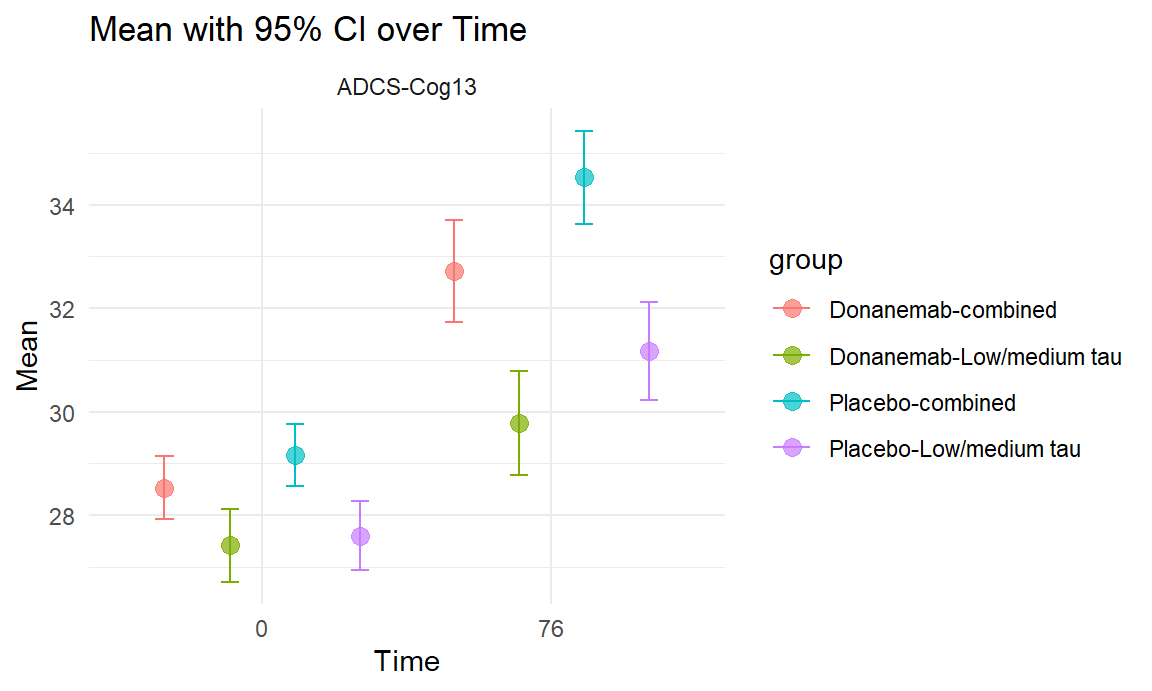
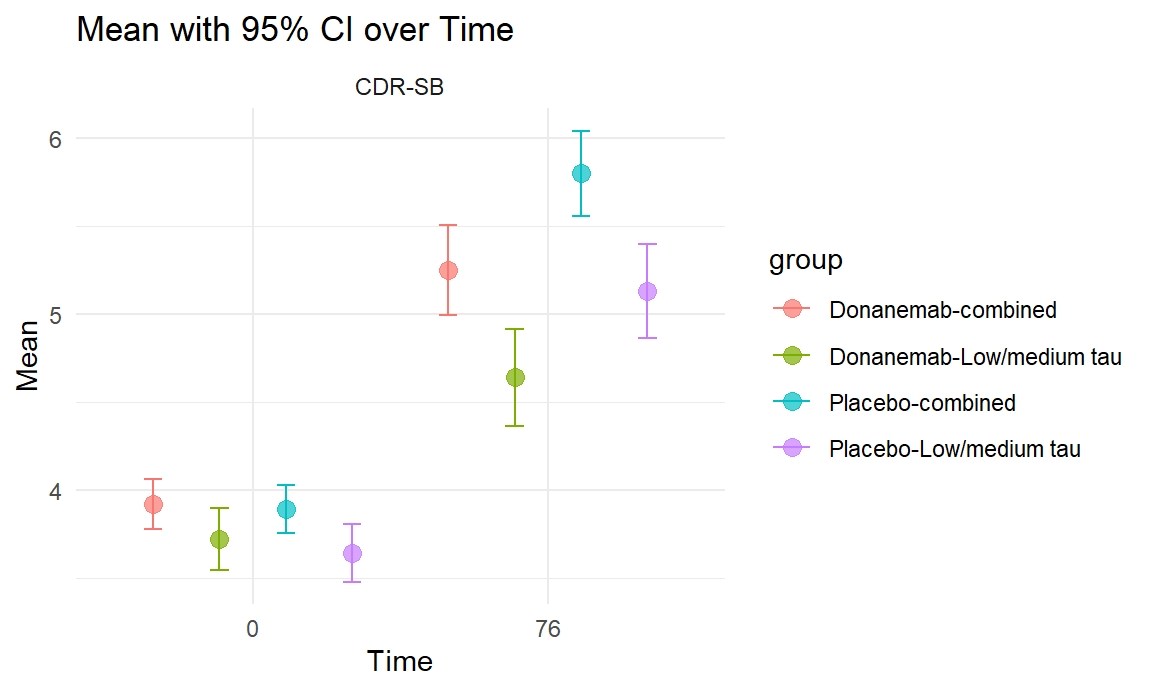
add demo in ct

diff --git a/Clinical_trials.html b/Clinical_trials.html
@@ -450,8 +450,8 @@ sex_df |&gt;
          xaxis = list(title = &quot;Drug&quot;),
          yaxis = list(title = &quot;Percentage (%)&quot;),
          width=500)</code></pre>
-<div class="plotly html-widget html-fill-item" id="htmlwidget-a2e14f26792b0a8ccf5e" style="width:90%;height:345.6px;"></div>
-<script type="application/json" data-for="htmlwidget-a2e14f26792b0a8ccf5e">{"x":{"visdat":{"bc581c265f55":["function () ","plotlyVisDat"]},"cur_data":"bc581c265f55","attrs":{"bc581c265f55":{"x":{},"y":{},"color":{},"alpha_stroke":1,"sizes":[10,100],"spans":[1,20],"type":"bar"}},"layout":{"width":500,"margin":{"b":40,"l":60,"t":25,"r":10},"barmode":"stack","title":"Distribution of Participants' Baseline Sex by drugs","xaxis":{"domain":[0,1],"automargin":true,"title":"Drug","type":"category","categoryorder":"array","categoryarray":["Donanemab","Lecanemab"]},"yaxis":{"domain":[0,1],"automargin":true,"title":"Percentage (%)"},"hovermode":"closest","showlegend":true},"source":"A","config":{"modeBarButtonsToAdd":["hoverclosest","hovercompare"],"showSendToCloud":false},"data":[{"x":["Lecanemab","Donanemab"],"y":[51.600000000000001,56.5],"type":"bar","name":"Female","marker":{"color":"rgba(102,194,165,1)","line":{"color":"rgba(102,194,165,1)"}},"textfont":{"color":"rgba(102,194,165,1)"},"error_y":{"color":"rgba(102,194,165,1)"},"error_x":{"color":"rgba(102,194,165,1)"},"xaxis":"x","yaxis":"y","frame":null},{"x":["Lecanemab","Donanemab"],"y":[48.399999999999999,43.5],"type":"bar","name":"Male","marker":{"color":"rgba(141,160,203,1)","line":{"color":"rgba(141,160,203,1)"}},"textfont":{"color":"rgba(141,160,203,1)"},"error_y":{"color":"rgba(141,160,203,1)"},"error_x":{"color":"rgba(141,160,203,1)"},"xaxis":"x","yaxis":"y","frame":null}],"highlight":{"on":"plotly_click","persistent":false,"dynamic":false,"selectize":false,"opacityDim":0.20000000000000001,"selected":{"opacity":1},"debounce":0},"shinyEvents":["plotly_hover","plotly_click","plotly_selected","plotly_relayout","plotly_brushed","plotly_brushing","plotly_clickannotation","plotly_doubleclick","plotly_deselect","plotly_afterplot","plotly_sunburstclick"],"base_url":"https://plot.ly"},"evals":[],"jsHooks":[]}</script>
+<div class="plotly html-widget html-fill-item" id="htmlwidget-f3eb65bda780d369e8ad" style="width:90%;height:345.6px;"></div>
+<script type="application/json" data-for="htmlwidget-f3eb65bda780d369e8ad">{"x":{"visdat":{"df50174335dc":["function () ","plotlyVisDat"]},"cur_data":"df50174335dc","attrs":{"df50174335dc":{"x":{},"y":{},"color":{},"alpha_stroke":1,"sizes":[10,100],"spans":[1,20],"type":"bar"}},"layout":{"width":500,"margin":{"b":40,"l":60,"t":25,"r":10},"barmode":"stack","title":"Distribution of Participants' Baseline Sex by drugs","xaxis":{"domain":[0,1],"automargin":true,"title":"Drug","type":"category","categoryorder":"array","categoryarray":["Donanemab","Lecanemab"]},"yaxis":{"domain":[0,1],"automargin":true,"title":"Percentage (%)"},"hovermode":"closest","showlegend":true},"source":"A","config":{"modeBarButtonsToAdd":["hoverclosest","hovercompare"],"showSendToCloud":false},"data":[{"x":["Lecanemab","Donanemab"],"y":[51.600000000000001,56.5],"type":"bar","name":"Female","marker":{"color":"rgba(102,194,165,1)","line":{"color":"rgba(102,194,165,1)"}},"textfont":{"color":"rgba(102,194,165,1)"},"error_y":{"color":"rgba(102,194,165,1)"},"error_x":{"color":"rgba(102,194,165,1)"},"xaxis":"x","yaxis":"y","frame":null},{"x":["Lecanemab","Donanemab"],"y":[48.399999999999999,43.5],"type":"bar","name":"Male","marker":{"color":"rgba(141,160,203,1)","line":{"color":"rgba(141,160,203,1)"}},"textfont":{"color":"rgba(141,160,203,1)"},"error_y":{"color":"rgba(141,160,203,1)"},"error_x":{"color":"rgba(141,160,203,1)"},"xaxis":"x","yaxis":"y","frame":null}],"highlight":{"on":"plotly_click","persistent":false,"dynamic":false,"selectize":false,"opacityDim":0.20000000000000001,"selected":{"opacity":1},"debounce":0},"shinyEvents":["plotly_hover","plotly_click","plotly_selected","plotly_relayout","plotly_brushed","plotly_brushing","plotly_clickannotation","plotly_doubleclick","plotly_deselect","plotly_afterplot","plotly_sunburstclick"],"base_url":"https://plot.ly"},"evals":[],"jsHooks":[]}</script>
 <ul>
 <li>From the plot, we can see that there are more female participants in
 Donanemab’s clinical trial than that in Lecanemab’s clinical trial.</li>
@@ -467,8 +467,8 @@ race_df |&gt;
          xaxis = list(title = &quot;Drug&quot;),
          yaxis = list(title = &quot;Percentage (%)&quot;),
          width=500)</code></pre>
-<div class="plotly html-widget html-fill-item" id="htmlwidget-179f9f90b46ea84e5c22" style="width:90%;height:345.6px;"></div>
-<script type="application/json" data-for="htmlwidget-179f9f90b46ea84e5c22">{"x":{"visdat":{"bc5862577be0":["function () ","plotlyVisDat"]},"cur_data":"bc5862577be0","attrs":{"bc5862577be0":{"x":{},"y":{},"color":{},"alpha_stroke":1,"sizes":[10,100],"spans":[1,20],"type":"bar"}},"layout":{"width":500,"margin":{"b":40,"l":60,"t":25,"r":10},"barmode":"stack","title":"Distribution of Participants' Baseline Race by drugs","xaxis":{"domain":[0,1],"automargin":true,"title":"Drug","type":"category","categoryorder":"array","categoryarray":["Donanemab","Lecanemab"]},"yaxis":{"domain":[0,1],"automargin":true,"title":"Percentage (%)"},"hovermode":"closest","showlegend":true},"source":"A","config":{"modeBarButtonsToAdd":["hoverclosest","hovercompare"],"showSendToCloud":false},"data":[{"x":["Lecanemab","Donanemab"],"y":[76.299999999999997,90],"type":"bar","name":"White","marker":{"color":"rgba(102,194,165,1)","line":{"color":"rgba(102,194,165,1)"}},"textfont":{"color":"rgba(102,194,165,1)"},"error_y":{"color":"rgba(102,194,165,1)"},"error_x":{"color":"rgba(102,194,165,1)"},"xaxis":"x","yaxis":"y","frame":null},{"x":["Lecanemab","Donanemab"],"y":[17.100000000000001,7.2999999999999998],"type":"bar","name":"Asian","marker":{"color":"rgba(252,141,98,1)","line":{"color":"rgba(252,141,98,1)"}},"textfont":{"color":"rgba(252,141,98,1)"},"error_y":{"color":"rgba(252,141,98,1)"},"error_x":{"color":"rgba(252,141,98,1)"},"xaxis":"x","yaxis":"y","frame":null},{"x":["Lecanemab","Donanemab"],"y":[2.2999999999999998,2.5],"type":"bar","name":"Black","marker":{"color":"rgba(141,160,203,1)","line":{"color":"rgba(141,160,203,1)"}},"textfont":{"color":"rgba(141,160,203,1)"},"error_y":{"color":"rgba(141,160,203,1)"},"error_x":{"color":"rgba(141,160,203,1)"},"xaxis":"x","yaxis":"y","frame":null},{"x":["Lecanemab","Donanemab"],"y":[4.2999999999999998,0.20000000000000001],"type":"bar","name":"Other or Missing","marker":{"color":"rgba(231,138,195,1)","line":{"color":"rgba(231,138,195,1)"}},"textfont":{"color":"rgba(231,138,195,1)"},"error_y":{"color":"rgba(231,138,195,1)"},"error_x":{"color":"rgba(231,138,195,1)"},"xaxis":"x","yaxis":"y","frame":null}],"highlight":{"on":"plotly_click","persistent":false,"dynamic":false,"selectize":false,"opacityDim":0.20000000000000001,"selected":{"opacity":1},"debounce":0},"shinyEvents":["plotly_hover","plotly_click","plotly_selected","plotly_relayout","plotly_brushed","plotly_brushing","plotly_clickannotation","plotly_doubleclick","plotly_deselect","plotly_afterplot","plotly_sunburstclick"],"base_url":"https://plot.ly"},"evals":[],"jsHooks":[]}</script>
+<div class="plotly html-widget html-fill-item" id="htmlwidget-8669cff8b15f7c8687e4" style="width:90%;height:345.6px;"></div>
+<script type="application/json" data-for="htmlwidget-8669cff8b15f7c8687e4">{"x":{"visdat":{"df50573d35f2":["function () ","plotlyVisDat"]},"cur_data":"df50573d35f2","attrs":{"df50573d35f2":{"x":{},"y":{},"color":{},"alpha_stroke":1,"sizes":[10,100],"spans":[1,20],"type":"bar"}},"layout":{"width":500,"margin":{"b":40,"l":60,"t":25,"r":10},"barmode":"stack","title":"Distribution of Participants' Baseline Race by drugs","xaxis":{"domain":[0,1],"automargin":true,"title":"Drug","type":"category","categoryorder":"array","categoryarray":["Donanemab","Lecanemab"]},"yaxis":{"domain":[0,1],"automargin":true,"title":"Percentage (%)"},"hovermode":"closest","showlegend":true},"source":"A","config":{"modeBarButtonsToAdd":["hoverclosest","hovercompare"],"showSendToCloud":false},"data":[{"x":["Lecanemab","Donanemab"],"y":[76.299999999999997,90],"type":"bar","name":"White","marker":{"color":"rgba(102,194,165,1)","line":{"color":"rgba(102,194,165,1)"}},"textfont":{"color":"rgba(102,194,165,1)"},"error_y":{"color":"rgba(102,194,165,1)"},"error_x":{"color":"rgba(102,194,165,1)"},"xaxis":"x","yaxis":"y","frame":null},{"x":["Lecanemab","Donanemab"],"y":[17.100000000000001,7.2999999999999998],"type":"bar","name":"Asian","marker":{"color":"rgba(252,141,98,1)","line":{"color":"rgba(252,141,98,1)"}},"textfont":{"color":"rgba(252,141,98,1)"},"error_y":{"color":"rgba(252,141,98,1)"},"error_x":{"color":"rgba(252,141,98,1)"},"xaxis":"x","yaxis":"y","frame":null},{"x":["Lecanemab","Donanemab"],"y":[2.2999999999999998,2.5],"type":"bar","name":"Black","marker":{"color":"rgba(141,160,203,1)","line":{"color":"rgba(141,160,203,1)"}},"textfont":{"color":"rgba(141,160,203,1)"},"error_y":{"color":"rgba(141,160,203,1)"},"error_x":{"color":"rgba(141,160,203,1)"},"xaxis":"x","yaxis":"y","frame":null},{"x":["Lecanemab","Donanemab"],"y":[4.2999999999999998,0.20000000000000001],"type":"bar","name":"Other or Missing","marker":{"color":"rgba(231,138,195,1)","line":{"color":"rgba(231,138,195,1)"}},"textfont":{"color":"rgba(231,138,195,1)"},"error_y":{"color":"rgba(231,138,195,1)"},"error_x":{"color":"rgba(231,138,195,1)"},"xaxis":"x","yaxis":"y","frame":null}],"highlight":{"on":"plotly_click","persistent":false,"dynamic":false,"selectize":false,"opacityDim":0.20000000000000001,"selected":{"opacity":1},"debounce":0},"shinyEvents":["plotly_hover","plotly_click","plotly_selected","plotly_relayout","plotly_brushed","plotly_brushing","plotly_clickannotation","plotly_doubleclick","plotly_deselect","plotly_afterplot","plotly_sunburstclick"],"base_url":"https://plot.ly"},"evals":[],"jsHooks":[]}</script>
 <ul>
 <li>From the plot, we can see there is more diversity in Lecanemab’s
 clinical trial. Races other than white occupies a larger proportion of
@@ -476,6 +476,65 @@ participants in Lecanemab’s clinical trial than that in Donanemab’s
 clinical trial than that in Lecanemab’s clinical trial, especially
 Asians.</li>
 </ul>
+<pre class="r"><code>combine_mean_sd = function(df, group = &quot;&quot;){
+  
+  n = df |&gt; filter(str_detect(group, &quot;Low/medium tau&quot;)) |&gt; pull(sample_size) # number in group 1
+  m =  df |&gt; filter(str_detect(group, &quot;combined&quot;)) |&gt; pull(sample_size) # number in group 2
+  sx = df |&gt; filter(str_detect(group, &quot;Low/medium tau&quot;)) |&gt; pull(sd) # sd of group 1
+  sy = df |&gt; filter(str_detect(group, &quot;combined&quot;)) |&gt; pull(sd) # sd of group 2
+  x_bar = df |&gt; filter(str_detect(group, &quot;Low/medium tau&quot;)) |&gt; pull(mean) # mean of group 1
+  y_bar = df |&gt; filter(str_detect(group, &quot;combined&quot;)) |&gt; pull(mean) # mean of group 2
+
+  combined_mean = (n * x_bar + m * y_bar) / (n + m)
+  combined_sd =   sqrt(((n-1)*sx^2+(m-1)*sy^2)/(n+m-1)+(n*m*(x_bar-y_bar)^2)/((n+m)*(n+m-1)))
+  combined_samplesize = n + m
+  combined_ci_lower = combined_mean - 1.96*combined_sd
+  combined_ci_upper = combined_mean + 1.96*combined_sd
+  
+  return (tibble(
+    outcome = df |&gt; head(1) |&gt; pull(outcome),
+    group = group,
+    mean = combined_mean,
+    sd = combined_sd,
+    sample_size = combined_samplesize,
+    ci_lower = combined_ci_lower,
+    ci_upper = combined_ci_upper,
+    time = 0))}</code></pre>
+<pre class="r"><code>iADRS &lt;- read_excel(&quot;data/Donanemab_.xlsx&quot;, sheet = &quot;1&quot;)
+CDR_SB &lt;- read_excel(&quot;data/Donanemab_.xlsx&quot;, sheet = &quot;2&quot;)
+ADCS_iADL &lt;- read_excel(&quot;data/Donanemab_.xlsx&quot;, sheet = &quot;3&quot;)
+ADAS_Cog13 &lt;- read_excel(&quot;data/Donanemab_.xlsx&quot;, sheet = &quot;4&quot;)
+MMSE &lt;- read_excel(&quot;data/Donanemab_.xlsx&quot;, sheet = &quot;5&quot;)
+
+lec_result &lt;- read_excel(&quot;data/Lecanemab.xlsx&quot;, sheet = &quot;result&quot;) |&gt;
+  filter(time == 0,
+         outcome %in% c(&quot;CDR-SB&quot;, &quot;ADAS-Cog14&quot;, &quot;MMSE&quot;)) |&gt;
+  mutate(drug = &quot;Lecanemab&quot;,
+         ci_lower = mean - 1.96*sd,
+         ci_upper = mean + 1.96*sd) |&gt;
+  select(drug, everything())
+
+don_result = bind_rows(
+  combine_mean_sd(CDR_SB |&gt; filter(time == 0, str_detect(group, &quot;Donanemab&quot;)), &quot;Donanemab&quot;),
+  combine_mean_sd(CDR_SB |&gt; filter(time == 0, str_detect(group, &quot;Placebo&quot;)), &quot;Placebo&quot;),
+  combine_mean_sd(ADAS_Cog13 |&gt; filter(time == 0, str_detect(group, &quot;Donanemab&quot;)), &quot;Donanemab&quot;),
+  combine_mean_sd(ADAS_Cog13 |&gt; filter(time == 0, str_detect(group, &quot;Placebo&quot;)), &quot;Placebo&quot;),
+  combine_mean_sd(MMSE |&gt; filter(time == 0, str_detect(group, &quot;Donanemab&quot;)), &quot;Donanemab&quot;),
+  combine_mean_sd(MMSE |&gt; filter(time == 0, str_detect(group, &quot;Placebo&quot;)), &quot;Placebo&quot;)
+  ) |&gt;
+  mutate(drug = &quot;Donanemab&quot;) |&gt;
+  select(drug, everything())
+
+
+ggplot(bind_rows(lec_result, don_result) |&gt; filter (!(outcome %in% c(&quot;CDR-SB&quot;, &quot;MMSE&quot;) &amp; group == &quot;Placebo&quot;)), aes(x = as.factor(time), y = mean, fill = group, color = group)) +
+  geom_point(position = position_dodge(0.9), size = 3, alpha = 0.7) +
+  geom_errorbar(aes(ymin = ci_lower, ymax = ci_upper), position = position_dodge(0.9), width = 0.25) +
+  facet_wrap(~outcome, scales = &quot;free_y&quot;) +
+  labs(title = &quot;Mean with 95% CI over Time&quot;,
+       x = &quot;Time&quot;,
+       y = &quot;Mean&quot;) +
+  theme_minimal()</code></pre>
+<p><img src="Clinical_trials_files/figure-html/unnamed-chunk-5-1.png" width="90%" /></p>
 </div>
 <div id="donanemab" class="section level2">
 <h2>Donanemab</h2>
@@ -521,7 +580,7 @@ ggplot(iADRS, aes(x = as.factor(time), y = mean, fill = group, color = group)) +
        x = &quot;Time&quot;,
        y = &quot;Mean&quot;) +
   theme_minimal()</code></pre>
-<p><img src="Clinical_trials_files/figure-html/unnamed-chunk-4-1.png" width="90%" /></p>
+<p><img src="Clinical_trials_files/figure-html/unnamed-chunk-6-1.png" width="90%" /></p>
 <p>The results show that treatment with donanemab resulted in a
 statistically significant slowing of clinical progression compared to
 placebo in both the low/medium tau and combined populations.</p>
@@ -549,7 +608,7 @@ ggplot(CDR_SB, aes(x = as.factor(time), y = mean, fill = group, color = group)) 
        x = &quot;Time&quot;,
        y = &quot;Mean&quot;) +
   theme_minimal()</code></pre>
-<p><img src="Clinical_trials_files/figure-html/unnamed-chunk-5-1.png" width="90%" /></p>
+<p><img src="Clinical_trials_files/figure-html/unnamed-chunk-7-1.png" width="90%" /></p>
 <p>The trial results demonstrated that treatment with donanemab resulted
 in a statistically significant slowing of clinical progression as
 measured by the CDR-SB, indicating its potential efficacy in addressing
@@ -581,7 +640,7 @@ ggplot(ADCS_iADL, aes(x = as.factor(time), y = mean, fill = group, color = group
        x = &quot;Time&quot;,
        y = &quot;Mean&quot;) +
   theme_minimal()</code></pre>
-<p><img src="Clinical_trials_files/figure-html/unnamed-chunk-6-1.png" width="90%" /></p>
+<p><img src="Clinical_trials_files/figure-html/unnamed-chunk-8-1.png" width="90%" /></p>
 <p>In the trial results, changes in ADCS-iADL reflected the impact of
 donanemab treatment on patients’ functioning of daily living. By
 comparing changes in ADCS-iADL scores between the donanemab group and
@@ -596,9 +655,9 @@ clinical status and change over time in individuals with Alzheimer’s
 disease. It is designed to provide a global assessment of a patient’s
 condition, taking into account cognitive, functional, and behavioral
 aspects.</p>
-<pre class="r"><code>ADCS_Cog13 &lt;- read_excel(&quot;data/Donanemab_.xlsx&quot;, sheet = &quot;4&quot;)
+<pre class="r"><code>ADAS_Cog13 &lt;- read_excel(&quot;data/Donanemab_.xlsx&quot;, sheet = &quot;4&quot;)
 
-ggplot(ADCS_Cog13, aes(x = as.factor(time), y = mean, fill = group, color = group)) +
+ggplot(ADAS_Cog13, aes(x = as.factor(time), y = mean, fill = group, color = group)) +
   geom_point(position = position_dodge(0.9), size = 3, alpha = 0.7) +
   geom_errorbar(aes(ymin = ci_lower, ymax = ci_upper), position = position_dodge(0.9), width = 0.25) +
   facet_wrap(~outcome, scales = &quot;free_y&quot;) +
@@ -606,7 +665,7 @@ ggplot(ADCS_Cog13, aes(x = as.factor(time), y = mean, fill = group, color = grou
        x = &quot;Time&quot;,
        y = &quot;Mean&quot;) +
   theme_minimal()</code></pre>
-<p><img src="Clinical_trials_files/figure-html/unnamed-chunk-7-1.png" width="90%" /></p>
+<p><img src="Clinical_trials_files/figure-html/unnamed-chunk-9-1.png" width="90%" /></p>
 <p>A greater reduction in the least squares mean change from baseline to
 76 weeks in the donanemab group compared to the placebo group would
 indicate a potential positive effect of donanemab on cognitive
@@ -630,7 +689,7 @@ ggplot(MMSE, aes(x = as.factor(time), y = mean, fill = group, color = group)) +
        x = &quot;Time&quot;,
        y = &quot;Mean&quot;) +
   theme_minimal()</code></pre>
-<p><img src="Clinical_trials_files/figure-html/unnamed-chunk-8-1.png" width="90%" /></p>
+<p><img src="Clinical_trials_files/figure-html/unnamed-chunk-10-1.png" width="90%" /></p>
 <p>The MMSE scores provide information about the cognitive function of
 the participants in the study. The mean scores and standard deviations
 can be used to compare the cognitive performance of the donanemab group
@@ -658,8 +717,8 @@ plot_ly(Don_KM |&gt;
   layout(title = &quot;Hazard Plot for Donanemab&quot;,
              xaxis = list(title = &quot;Days from First Infusion&quot;),
              yaxis = list(title = &quot;Percentage of Participants Progression&quot;))</code></pre>
-<div class="plotly html-widget html-fill-item" id="htmlwidget-99b1b94cb251e4328fef" style="width:90%;height:345.6px;"></div>
-<script type="application/json" data-for="htmlwidget-99b1b94cb251e4328fef">{"x":{"visdat":{"bc58108c42cc":["function () ","plotlyVisDat"]},"cur_data":"bc58108c42cc","attrs":{"bc58108c42cc":{"x":{},"y":{},"line":{"shape":"hv"},"color":{},"colors":"viridis","alpha_stroke":1,"sizes":[10,100],"spans":[1,20]}},"layout":{"margin":{"b":40,"l":60,"t":25,"r":10},"title":"Hazard Plot for Donanemab","xaxis":{"domain":[0,1],"automargin":true,"title":"Days from First Infusion"},"yaxis":{"domain":[0,1],"automargin":true,"title":"Percentage of Participants Progression"},"hovermode":"closest","showlegend":true},"source":"A","config":{"modeBarButtonsToAdd":["hoverclosest","hovercompare"],"showSendToCloud":false},"data":[{"x":[0,60,120,180,240,360,480,540],"y":[0,0,0.035000000000000003,0.070000000000000007,0.078,0.154,0.26300000000000001,0.26300000000000001],"line":{"color":"rgba(68,1,84,1)","shape":"hv"},"type":"scatter","mode":"markers+lines","name":"donanemab","marker":{"color":"rgba(68,1,84,1)","line":{"color":"rgba(68,1,84,1)"}},"textfont":{"color":"rgba(68,1,84,1)"},"error_y":{"color":"rgba(68,1,84,1)"},"error_x":{"color":"rgba(68,1,84,1)"},"xaxis":"x","yaxis":"y","frame":null},{"x":[0,60,120,180,240,360,480,540],"y":[0,0,0.081000000000000003,0.14999999999999999,0.17000000000000001,0.246,0.38700000000000001,0.38700000000000001],"line":{"color":"rgba(253,231,37,1)","shape":"hv"},"type":"scatter","mode":"markers+lines","name":"placebo","marker":{"color":"rgba(253,231,37,1)","line":{"color":"rgba(253,231,37,1)"}},"textfont":{"color":"rgba(253,231,37,1)"},"error_y":{"color":"rgba(253,231,37,1)"},"error_x":{"color":"rgba(253,231,37,1)"},"xaxis":"x","yaxis":"y","frame":null}],"highlight":{"on":"plotly_click","persistent":false,"dynamic":false,"selectize":false,"opacityDim":0.20000000000000001,"selected":{"opacity":1},"debounce":0},"shinyEvents":["plotly_hover","plotly_click","plotly_selected","plotly_relayout","plotly_brushed","plotly_brushing","plotly_clickannotation","plotly_doubleclick","plotly_deselect","plotly_afterplot","plotly_sunburstclick"],"base_url":"https://plot.ly"},"evals":[],"jsHooks":[]}</script>
+<div class="plotly html-widget html-fill-item" id="htmlwidget-81b5663019ff73fa7ca0" style="width:90%;height:345.6px;"></div>
+<script type="application/json" data-for="htmlwidget-81b5663019ff73fa7ca0">{"x":{"visdat":{"df502ad9479a":["function () ","plotlyVisDat"]},"cur_data":"df502ad9479a","attrs":{"df502ad9479a":{"x":{},"y":{},"line":{"shape":"hv"},"color":{},"colors":"viridis","alpha_stroke":1,"sizes":[10,100],"spans":[1,20]}},"layout":{"margin":{"b":40,"l":60,"t":25,"r":10},"title":"Hazard Plot for Donanemab","xaxis":{"domain":[0,1],"automargin":true,"title":"Days from First Infusion"},"yaxis":{"domain":[0,1],"automargin":true,"title":"Percentage of Participants Progression"},"hovermode":"closest","showlegend":true},"source":"A","config":{"modeBarButtonsToAdd":["hoverclosest","hovercompare"],"showSendToCloud":false},"data":[{"x":[0,60,120,180,240,360,480,540],"y":[0,0,0.035000000000000003,0.070000000000000007,0.078,0.154,0.26300000000000001,0.26300000000000001],"line":{"color":"rgba(68,1,84,1)","shape":"hv"},"type":"scatter","mode":"markers+lines","name":"donanemab","marker":{"color":"rgba(68,1,84,1)","line":{"color":"rgba(68,1,84,1)"}},"textfont":{"color":"rgba(68,1,84,1)"},"error_y":{"color":"rgba(68,1,84,1)"},"error_x":{"color":"rgba(68,1,84,1)"},"xaxis":"x","yaxis":"y","frame":null},{"x":[0,60,120,180,240,360,480,540],"y":[0,0,0.081000000000000003,0.14999999999999999,0.17000000000000001,0.246,0.38700000000000001,0.38700000000000001],"line":{"color":"rgba(253,231,37,1)","shape":"hv"},"type":"scatter","mode":"markers+lines","name":"placebo","marker":{"color":"rgba(253,231,37,1)","line":{"color":"rgba(253,231,37,1)"}},"textfont":{"color":"rgba(253,231,37,1)"},"error_y":{"color":"rgba(253,231,37,1)"},"error_x":{"color":"rgba(253,231,37,1)"},"xaxis":"x","yaxis":"y","frame":null}],"highlight":{"on":"plotly_click","persistent":false,"dynamic":false,"selectize":false,"opacityDim":0.20000000000000001,"selected":{"opacity":1},"debounce":0},"shinyEvents":["plotly_hover","plotly_click","plotly_selected","plotly_relayout","plotly_brushed","plotly_brushing","plotly_clickannotation","plotly_doubleclick","plotly_deselect","plotly_afterplot","plotly_sunburstclick"],"base_url":"https://plot.ly"},"evals":[],"jsHooks":[]}</script>
 <ul>
 <li>The hazard ratio for the combined group of Donanemab was found to be
 0.623 with a 95% confidence interval of 0.519 to 0.748, indicating a
@@ -698,8 +757,8 @@ merge_safety = left_join(lec_safety, don_safety, by = &quot;events&quot;)</code>
   layout(title = &quot;Barplot for Adverse Events&quot;,
              xaxis = list(title = &quot;Adverse Event&quot;),
              yaxis = list(title = &quot;Number of participants&quot;))</code></pre>
-<div class="plotly html-widget html-fill-item" id="htmlwidget-83a41fee7c5b20024d32" style="width:90%;height:345.6px;"></div>
-<script type="application/json" data-for="htmlwidget-83a41fee7c5b20024d32">{"x":{"visdat":{"bc5823706da3":["function () ","plotlyVisDat"]},"cur_data":"bc5823706da3","attrs":{"bc5823706da3":{"x":{},"y":{},"color":{},"colors":"viridis","alpha_stroke":1,"sizes":[10,100],"spans":[1,20],"type":"bar"}},"layout":{"margin":{"b":40,"l":60,"t":25,"r":10},"title":"Barplot for Adverse Events","xaxis":{"domain":[0,1],"automargin":true,"title":"Adverse Event","type":"category","categoryorder":"array","categoryarray":["Participants with ≥1 AEs","Participants with ≥1 serious Aes","Study discontinuations due to AEs","Death"]},"yaxis":{"domain":[0,1],"automargin":true,"title":"Number of participants"},"hovermode":"closest","showlegend":true},"source":"A","config":{"modeBarButtonsToAdd":["hoverclosest","hovercompare"],"showSendToCloud":false},"data":[{"x":["Participants with ≥1 AEs","Participants with ≥1 serious Aes","Study discontinuations due to AEs","Death"],"y":[759,148,69,16],"type":"bar","name":"donanemab","marker":{"color":"rgba(68,1,84,1)","line":{"color":"rgba(68,1,84,1)"}},"textfont":{"color":"rgba(68,1,84,1)"},"error_y":{"color":"rgba(68,1,84,1)"},"error_x":{"color":"rgba(68,1,84,1)"},"xaxis":"x","yaxis":"y","frame":null},{"x":["Participants with ≥1 AEs","Participants with ≥1 serious Aes","Study discontinuations due to AEs","Death"],"y":[718,138,32,10],"type":"bar","name":"donanemab_placebo","marker":{"color":"rgba(49,104,142,1)","line":{"color":"rgba(49,104,142,1)"}},"textfont":{"color":"rgba(49,104,142,1)"},"error_y":{"color":"rgba(49,104,142,1)"},"error_x":{"color":"rgba(49,104,142,1)"},"xaxis":"x","yaxis":"y","frame":null},{"x":["Participants with ≥1 AEs","Participants with ≥1 serious Aes","Study discontinuations due to AEs","Death"],"y":[798,126,62,6],"type":"bar","name":"lecanemab","marker":{"color":"rgba(53,183,121,1)","line":{"color":"rgba(53,183,121,1)"}},"textfont":{"color":"rgba(53,183,121,1)"},"error_y":{"color":"rgba(53,183,121,1)"},"error_x":{"color":"rgba(53,183,121,1)"},"xaxis":"x","yaxis":"y","frame":null},{"x":["Participants with ≥1 AEs","Participants with ≥1 serious Aes","Study discontinuations due to AEs","Death"],"y":[735,101,26,7],"type":"bar","name":"lecanemab_placebo","marker":{"color":"rgba(253,231,37,1)","line":{"color":"rgba(253,231,37,1)"}},"textfont":{"color":"rgba(253,231,37,1)"},"error_y":{"color":"rgba(253,231,37,1)"},"error_x":{"color":"rgba(253,231,37,1)"},"xaxis":"x","yaxis":"y","frame":null}],"highlight":{"on":"plotly_click","persistent":false,"dynamic":false,"selectize":false,"opacityDim":0.20000000000000001,"selected":{"opacity":1},"debounce":0},"shinyEvents":["plotly_hover","plotly_click","plotly_selected","plotly_relayout","plotly_brushed","plotly_brushing","plotly_clickannotation","plotly_doubleclick","plotly_deselect","plotly_afterplot","plotly_sunburstclick"],"base_url":"https://plot.ly"},"evals":[],"jsHooks":[]}</script>
+<div class="plotly html-widget html-fill-item" id="htmlwidget-7f93ef1dc17b6e6e440c" style="width:90%;height:345.6px;"></div>
+<script type="application/json" data-for="htmlwidget-7f93ef1dc17b6e6e440c">{"x":{"visdat":{"df506fa35f63":["function () ","plotlyVisDat"]},"cur_data":"df506fa35f63","attrs":{"df506fa35f63":{"x":{},"y":{},"color":{},"colors":"viridis","alpha_stroke":1,"sizes":[10,100],"spans":[1,20],"type":"bar"}},"layout":{"margin":{"b":40,"l":60,"t":25,"r":10},"title":"Barplot for Adverse Events","xaxis":{"domain":[0,1],"automargin":true,"title":"Adverse Event","type":"category","categoryorder":"array","categoryarray":["Participants with ≥1 AEs","Participants with ≥1 serious Aes","Study discontinuations due to AEs","Death"]},"yaxis":{"domain":[0,1],"automargin":true,"title":"Number of participants"},"hovermode":"closest","showlegend":true},"source":"A","config":{"modeBarButtonsToAdd":["hoverclosest","hovercompare"],"showSendToCloud":false},"data":[{"x":["Participants with ≥1 AEs","Participants with ≥1 serious Aes","Study discontinuations due to AEs","Death"],"y":[759,148,69,16],"type":"bar","name":"donanemab","marker":{"color":"rgba(68,1,84,1)","line":{"color":"rgba(68,1,84,1)"}},"textfont":{"color":"rgba(68,1,84,1)"},"error_y":{"color":"rgba(68,1,84,1)"},"error_x":{"color":"rgba(68,1,84,1)"},"xaxis":"x","yaxis":"y","frame":null},{"x":["Participants with ≥1 AEs","Participants with ≥1 serious Aes","Study discontinuations due to AEs","Death"],"y":[718,138,32,10],"type":"bar","name":"donanemab_placebo","marker":{"color":"rgba(49,104,142,1)","line":{"color":"rgba(49,104,142,1)"}},"textfont":{"color":"rgba(49,104,142,1)"},"error_y":{"color":"rgba(49,104,142,1)"},"error_x":{"color":"rgba(49,104,142,1)"},"xaxis":"x","yaxis":"y","frame":null},{"x":["Participants with ≥1 AEs","Participants with ≥1 serious Aes","Study discontinuations due to AEs","Death"],"y":[798,126,62,6],"type":"bar","name":"lecanemab","marker":{"color":"rgba(53,183,121,1)","line":{"color":"rgba(53,183,121,1)"}},"textfont":{"color":"rgba(53,183,121,1)"},"error_y":{"color":"rgba(53,183,121,1)"},"error_x":{"color":"rgba(53,183,121,1)"},"xaxis":"x","yaxis":"y","frame":null},{"x":["Participants with ≥1 AEs","Participants with ≥1 serious Aes","Study discontinuations due to AEs","Death"],"y":[735,101,26,7],"type":"bar","name":"lecanemab_placebo","marker":{"color":"rgba(253,231,37,1)","line":{"color":"rgba(253,231,37,1)"}},"textfont":{"color":"rgba(253,231,37,1)"},"error_y":{"color":"rgba(253,231,37,1)"},"error_x":{"color":"rgba(253,231,37,1)"},"xaxis":"x","yaxis":"y","frame":null}],"highlight":{"on":"plotly_click","persistent":false,"dynamic":false,"selectize":false,"opacityDim":0.20000000000000001,"selected":{"opacity":1},"debounce":0},"shinyEvents":["plotly_hover","plotly_click","plotly_selected","plotly_relayout","plotly_brushed","plotly_brushing","plotly_clickannotation","plotly_doubleclick","plotly_deselect","plotly_afterplot","plotly_sunburstclick"],"base_url":"https://plot.ly"},"evals":[],"jsHooks":[]}</script>
 <ul>
 <li>The Lecanemab group experienced a 0.7% death rate (6 cases) compared
 to 0.8% (7 cases) in the placebo group, with no deaths linked to
@@ -796,8 +855,8 @@ merge_ae = left_join(lec_ae, don_ae, by = &quot;ae&quot;)</code></pre>
   layout(title = &quot;Barplot for Adverse Events&quot;,
              xaxis = list(title = &quot;Adverse Event&quot;),
              yaxis = list(title = &quot;Number of participants&quot;))</code></pre>
-<div class="plotly html-widget html-fill-item" id="htmlwidget-033e1a19eb44540e0241" style="width:90%;height:345.6px;"></div>
-<script type="application/json" data-for="htmlwidget-033e1a19eb44540e0241">{"x":{"visdat":{"bc581f6e6cba":["function () ","plotlyVisDat"]},"cur_data":"bc581f6e6cba","attrs":{"bc581f6e6cba":{"x":{},"y":{},"color":{},"colors":"viridis","alpha_stroke":1,"sizes":[10,100],"spans":[1,20],"type":"bar"}},"layout":{"margin":{"b":40,"l":60,"t":25,"r":10},"title":"Barplot for Adverse Events","xaxis":{"domain":[0,1],"automargin":true,"title":"Adverse Event","type":"category","categoryorder":"array","categoryarray":["Diarrhea","Urinary tract infection","Arrthralgia","Dizziness","Infusion-related reaction","Fall","Headache","ARIA-H","ARIA-E"]},"yaxis":{"domain":[0,1],"automargin":true,"title":"Number of participants"},"hovermode":"closest","showlegend":true},"source":"A","config":{"modeBarButtonsToAdd":["hoverclosest","hovercompare"],"showSendToCloud":false},"data":[{"x":["Infusion-related reaction","ARIA-E","ARIA-H","Headache","Fall","Urinary tract infection","Arrthralgia","Dizziness","Diarrhea"],"y":[74,205,168,119,114,45,49,53,43],"type":"bar","name":"donanemab","marker":{"color":"rgba(68,1,84,1)","line":{"color":"rgba(68,1,84,1)"}},"textfont":{"color":"rgba(68,1,84,1)"},"error_y":{"color":"rgba(68,1,84,1)"},"error_x":{"color":"rgba(68,1,84,1)"},"xaxis":"x","yaxis":"y","frame":null},{"x":["Infusion-related reaction","ARIA-E","ARIA-H","Headache","Fall","Urinary tract infection","Arrthralgia","Dizziness","Diarrhea"],"y":[4,17,65,86,110,59,42,48,50],"type":"bar","name":"donanemab_placebo","marker":{"color":"rgba(49,104,142,1)","line":{"color":"rgba(49,104,142,1)"}},"textfont":{"color":"rgba(49,104,142,1)"},"error_y":{"color":"rgba(49,104,142,1)"},"error_x":{"color":"rgba(49,104,142,1)"},"xaxis":"x","yaxis":"y","frame":null},{"x":["Infusion-related reaction","ARIA-E","ARIA-H","Headache","Fall","Urinary tract infection","Arrthralgia","Dizziness","Diarrhea"],"y":[237,113,155,100,93,78,53,49,48],"type":"bar","name":"lecanemab","marker":{"color":"rgba(53,183,121,1)","line":{"color":"rgba(53,183,121,1)"}},"textfont":{"color":"rgba(53,183,121,1)"},"error_y":{"color":"rgba(53,183,121,1)"},"error_x":{"color":"rgba(53,183,121,1)"},"xaxis":"x","yaxis":"y","frame":null},{"x":["Infusion-related reaction","ARIA-E","ARIA-H","Headache","Fall","Urinary tract infection","Arrthralgia","Dizziness","Diarrhea"],"y":[66,15,81,73,86,82,62,46,58],"type":"bar","name":"lecanemab_placebo","marker":{"color":"rgba(253,231,37,1)","line":{"color":"rgba(253,231,37,1)"}},"textfont":{"color":"rgba(253,231,37,1)"},"error_y":{"color":"rgba(253,231,37,1)"},"error_x":{"color":"rgba(253,231,37,1)"},"xaxis":"x","yaxis":"y","frame":null}],"highlight":{"on":"plotly_click","persistent":false,"dynamic":false,"selectize":false,"opacityDim":0.20000000000000001,"selected":{"opacity":1},"debounce":0},"shinyEvents":["plotly_hover","plotly_click","plotly_selected","plotly_relayout","plotly_brushed","plotly_brushing","plotly_clickannotation","plotly_doubleclick","plotly_deselect","plotly_afterplot","plotly_sunburstclick"],"base_url":"https://plot.ly"},"evals":[],"jsHooks":[]}</script>
+<div class="plotly html-widget html-fill-item" id="htmlwidget-a37c3ddc0efccb9c43ff" style="width:90%;height:345.6px;"></div>
+<script type="application/json" data-for="htmlwidget-a37c3ddc0efccb9c43ff">{"x":{"visdat":{"df50330b64bd":["function () ","plotlyVisDat"]},"cur_data":"df50330b64bd","attrs":{"df50330b64bd":{"x":{},"y":{},"color":{},"colors":"viridis","alpha_stroke":1,"sizes":[10,100],"spans":[1,20],"type":"bar"}},"layout":{"margin":{"b":40,"l":60,"t":25,"r":10},"title":"Barplot for Adverse Events","xaxis":{"domain":[0,1],"automargin":true,"title":"Adverse Event","type":"category","categoryorder":"array","categoryarray":["Diarrhea","Urinary tract infection","Arrthralgia","Dizziness","Infusion-related reaction","Fall","Headache","ARIA-H","ARIA-E"]},"yaxis":{"domain":[0,1],"automargin":true,"title":"Number of participants"},"hovermode":"closest","showlegend":true},"source":"A","config":{"modeBarButtonsToAdd":["hoverclosest","hovercompare"],"showSendToCloud":false},"data":[{"x":["Infusion-related reaction","ARIA-E","ARIA-H","Headache","Fall","Urinary tract infection","Arrthralgia","Dizziness","Diarrhea"],"y":[74,205,168,119,114,45,49,53,43],"type":"bar","name":"donanemab","marker":{"color":"rgba(68,1,84,1)","line":{"color":"rgba(68,1,84,1)"}},"textfont":{"color":"rgba(68,1,84,1)"},"error_y":{"color":"rgba(68,1,84,1)"},"error_x":{"color":"rgba(68,1,84,1)"},"xaxis":"x","yaxis":"y","frame":null},{"x":["Infusion-related reaction","ARIA-E","ARIA-H","Headache","Fall","Urinary tract infection","Arrthralgia","Dizziness","Diarrhea"],"y":[4,17,65,86,110,59,42,48,50],"type":"bar","name":"donanemab_placebo","marker":{"color":"rgba(49,104,142,1)","line":{"color":"rgba(49,104,142,1)"}},"textfont":{"color":"rgba(49,104,142,1)"},"error_y":{"color":"rgba(49,104,142,1)"},"error_x":{"color":"rgba(49,104,142,1)"},"xaxis":"x","yaxis":"y","frame":null},{"x":["Infusion-related reaction","ARIA-E","ARIA-H","Headache","Fall","Urinary tract infection","Arrthralgia","Dizziness","Diarrhea"],"y":[237,113,155,100,93,78,53,49,48],"type":"bar","name":"lecanemab","marker":{"color":"rgba(53,183,121,1)","line":{"color":"rgba(53,183,121,1)"}},"textfont":{"color":"rgba(53,183,121,1)"},"error_y":{"color":"rgba(53,183,121,1)"},"error_x":{"color":"rgba(53,183,121,1)"},"xaxis":"x","yaxis":"y","frame":null},{"x":["Infusion-related reaction","ARIA-E","ARIA-H","Headache","Fall","Urinary tract infection","Arrthralgia","Dizziness","Diarrhea"],"y":[66,15,81,73,86,82,62,46,58],"type":"bar","name":"lecanemab_placebo","marker":{"color":"rgba(253,231,37,1)","line":{"color":"rgba(253,231,37,1)"}},"textfont":{"color":"rgba(253,231,37,1)"},"error_y":{"color":"rgba(253,231,37,1)"},"error_x":{"color":"rgba(253,231,37,1)"},"xaxis":"x","yaxis":"y","frame":null}],"highlight":{"on":"plotly_click","persistent":false,"dynamic":false,"selectize":false,"opacityDim":0.20000000000000001,"selected":{"opacity":1},"debounce":0},"shinyEvents":["plotly_hover","plotly_click","plotly_selected","plotly_relayout","plotly_brushed","plotly_brushing","plotly_clickannotation","plotly_doubleclick","plotly_deselect","plotly_afterplot","plotly_sunburstclick"],"base_url":"https://plot.ly"},"evals":[],"jsHooks":[]}</script>
 <p>The barplot clearly shows notable differences in specific adverse
 events (such as Infusion-related reactions, ARIA-E/ARIA-H, Urinary tract
 infections, and Headaches) between the treatment and placebo groups. To
@@ -1124,7 +1183,7 @@ ggplot(Don_result, aes(x = as.factor(time), y = mean, fill = group, color = grou
   theme(plot.title = element_text(hjust = 0.5)) +
   theme(legend.position = &quot;bottom&quot;) +
   guides(color = guide_legend(nrow = 2, byrow = TRUE))</code></pre>
-<p><img src="Clinical_trials_files/figure-html/unnamed-chunk-19-1.png" width="90%" /></p>
+<p><img src="Clinical_trials_files/figure-html/unnamed-chunk-21-1.png" width="90%" /></p>
 </div>
 </div>
 </div>
